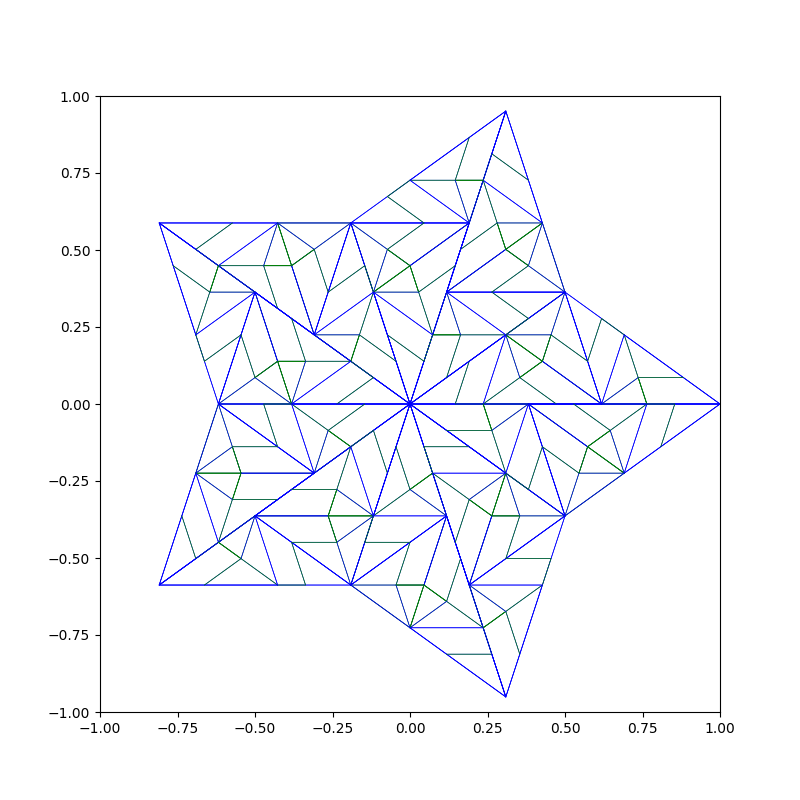
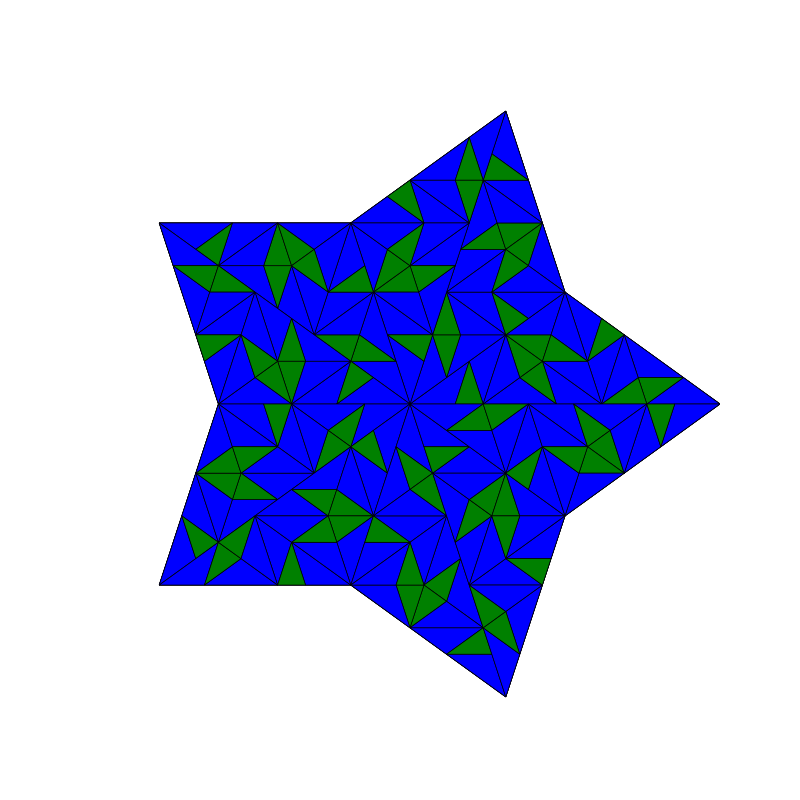
filled in tilings

diff --git a/PyPacking.py b/PyPacking.py
@@ -1,6 +1,16 @@
 import matplotlib.pyplot as plt
 import numpy as np
 
+def plot_triangle(triangle):
+    """
+    plots triangle  = (color,xpoints,ypoints)
+    """
+    col    = triangle[0]
+    x_vals = triangle[1]
+    y_vals = triangle[2]
+
+    plt.fill(x_vals,y_vals,color=col, edgecolor='k', linewidth=0.5)
+
 def triangle_subdivision(n):
     """
     makes a fractal of triangluar subdivisions
@@ -15,7 +25,6 @@ def triangle_subdivision(n):
     x_verts = []
     y_verts = []
 
-
     for i in range(0,100):
 
         theta = i*2*np.pi/3 + np.pi/2
@@ -25,13 +34,9 @@ def triangle_subdivision(n):
         x_verts.append(x)
         y_verts.append(y)
 
-    x_verts.append(x_verts[0])
-    y_verts.append(y_verts[0])
-    plt.plot(x_verts,y_verts,linewidth=0.5)
+    start_triangle = ['red',x_verts,y_verts]
 
-    # 
-    x_verts = x_verts[:-1]
-    y_verts = y_verts[:-1]
+    plot_triangle(start_triangle)
 
     def divide_tri(x_verts,y_verts):
         x_centre = np.mean(x_verts)
@@ -47,30 +52,27 @@ def triangle_subdivision(n):
             x_verts_new.append(x_vert_new)
             y_verts_new.append(y_vert_new)
 
-            plt.plot([x,x_vert_new],[y,y_vert_new],linewidth=0.5)
-
-        triangle_1 = [[x_verts[0],x_verts_new[1],x_centre],[y_verts[0],y_verts_new[1],y_centre]]
-        triangle_2 = [[x_verts[0],x_verts_new[2],x_centre],[y_verts[0],y_verts_new[2],y_centre]]
-        triangle_3 = [[x_verts[1],x_verts_new[0],x_centre],[y_verts[1],y_verts_new[0],y_centre]]
-        triangle_4 = [[x_verts[1],x_verts_new[2],x_centre],[y_verts[1],y_verts_new[2],y_centre]]
-        triangle_5 = [[x_verts[2],x_verts_new[0],x_centre],[y_verts[2],y_verts_new[0],y_centre]]
-        triangle_6 = [[x_verts[2],x_verts_new[1],x_centre],[y_verts[2],y_verts_new[1],y_centre]]
+        triangle_1 = ['green',[x_verts[0],x_verts_new[1],x_centre],[y_verts[0],y_verts_new[1],y_centre]]
+        triangle_2 = ['blue',[x_verts[0],x_verts_new[2],x_centre],[y_verts[0],y_verts_new[2],y_centre]]
+        triangle_3 = ['yellow',[x_verts[1],x_verts_new[0],x_centre],[y_verts[1],y_verts_new[0],y_centre]]
+        triangle_4 = ['orange',[x_verts[1],x_verts_new[2],x_centre],[y_verts[1],y_verts_new[2],y_centre]]
+        triangle_5 = ['purple',[x_verts[2],x_verts_new[0],x_centre],[y_verts[2],y_verts_new[0],y_centre]]
+        triangle_6 = ['brown',[x_verts[2],x_verts_new[1],x_centre],[y_verts[2],y_verts_new[1],y_centre]]
 
         sub_triangles = [triangle_1,triangle_2,triangle_3,triangle_4,triangle_5,triangle_6]
         return sub_triangles
-
-
-
 
     def n_div(x_verts,y_verts, n):
         if n >= 1:
             sub_triangles = divide_tri(x_verts,y_verts)
             for triangle in sub_triangles:
-                x_verts,y_verts = triangle[0],triangle[1]
+                plot_triangle(triangle)
+                x_verts,y_verts = triangle[1],triangle[2]
                 n_div(x_verts,y_verts,n-1)
     n_div(x_verts,y_verts, n)
     plt.xlim([-1,1])
     plt.ylim([-1,1])
+    plt.axis('off')
    # plt.show()
 
 def pack(num_of_sides):
@@ -126,6 +128,7 @@ def pack(num_of_sides):
     plt.grid()
     plt.xlim([-1,1])
     plt.ylim([-1,1])
+    plt.axis('off')
  #   plt.show()
 
 ######################################################
@@ -159,8 +162,8 @@ def Penrose_Tiling(n,pattern_name):
                 P_x = A_x + (B_x - A_x) / golden_ratio
                 P_y = A_y + (B_y - A_y) / golden_ratio
 
-                sub_triangle_1 = [col_1st, [C_x,P_x,B_x], [C_y,P_y,B_y]]
-                sub_triangle_2 = [col_2nd, [P_x,C_x,A_x], [P_y,C_y,A_y]]
+                sub_triangle_1 = [col_1st, (C_x,P_x,B_x), (C_y,P_y,B_y)]
+                sub_triangle_2 = [col_2nd, (P_x,C_x,A_x), (P_y,C_y,A_y)]
 
                 sub_triangles.append(sub_triangle_1)
                 sub_triangles.append(sub_triangle_2)
@@ -172,9 +175,9 @@ def Penrose_Tiling(n,pattern_name):
                 R_x = B_x + (C_x - B_x) / golden_ratio
                 R_y = B_y + (C_y - B_y) / golden_ratio
 
-                sub_triangle_1 = [col_2nd, [R_x,C_x,A_x], [R_y,C_y,A_y]]
-                sub_triangle_2 = [col_2nd, [Q_x,R_x,B_x], [Q_y,R_y,B_y]]
-                sub_triangle_3 = [col_1st, [R_x,Q_x,A_x], [R_y,Q_y,A_y]]
+                sub_triangle_1 = [col_2nd, (R_x,C_x,A_x), (R_y,C_y,A_y)]
+                sub_triangle_2 = [col_2nd, (Q_x,R_x,B_x), (Q_y,R_y,B_y)]
+                sub_triangle_3 = [col_1st, (R_x,Q_x,A_x), (R_y,Q_y,A_y)]
 
                 sub_triangles.append(sub_triangle_1)
                 sub_triangles.append(sub_triangle_2)
@@ -190,7 +193,7 @@ def Penrose_Tiling(n,pattern_name):
                 start_triangles.append(['green',[0,np.cos(i*np.pi/5),np.cos((i+1)*np.pi/5)],[0,np.sin(i*np.pi/5),np.sin((i+1)*np.pi/5)]])
             if i % 2 != 0:
                 start_triangles.append(['green',[0,np.cos((i+1)*np.pi/5),np.cos(i*np.pi/5)],[0,np.sin((i+1)*np.pi/5),np.sin(i*np.pi/5)]])
-            plt.plot(start_triangles[i][1],start_triangles[i][2],linewidth=0.5,c=start_triangles[i][0])
+            plot_triangle(start_triangles[i])
 
     if pattern_name == 'star':
        for i in range(0,10):
@@ -201,28 +204,24 @@ def Penrose_Tiling(n,pattern_name):
             if i % 2 != 0:
                 r = 0.5/np.cos(np.pi/5)
                 start_triangles.append(['blue',[r*np.cos(i*np.pi/5),np.cos((i+1)*np.pi/5),0],[r*np.sin(i*np.pi/5),np.sin((i+1)*np.pi/5),0]])
-
-
-            plt.plot(start_triangles[i][1],start_triangles[i][2],linewidth=0.5,c=start_triangles[i][0])
-
-    # sub_triangles = subdivide([start_triangle])
-    # print(sub_triangles)
+            plot_triangle(start_triangles[i])
     
     def peN_div(triangles, n):
         if n >= 1:
             sub_triangles = subdivide(triangles)
             for triangle in sub_triangles:
-                plt.plot(triangle[1],triangle[2],linewidth=0.5,c=triangle[0])
+                plot_triangle(triangle)
             peN_div(sub_triangles,n-1)
 
     peN_div(start_triangles, n)
 
     plt.xlim([-1,1])
     plt.ylim([-1,1])
+    plt.axis('off')
     #plt.show()
 
 
 #pack(5)
-#triangle_subdivision(3)
-# Penrose_Tiling(0,'star')
+# triangle_subdivision(3)
+# Penrose_Tiling(1,'star')
 # plt.show()
